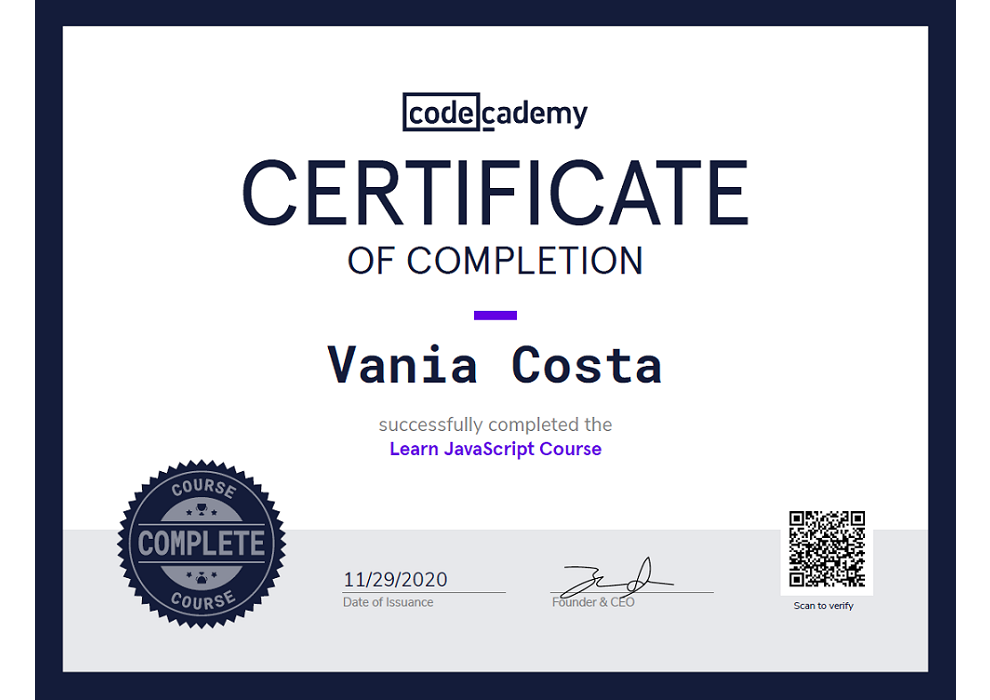
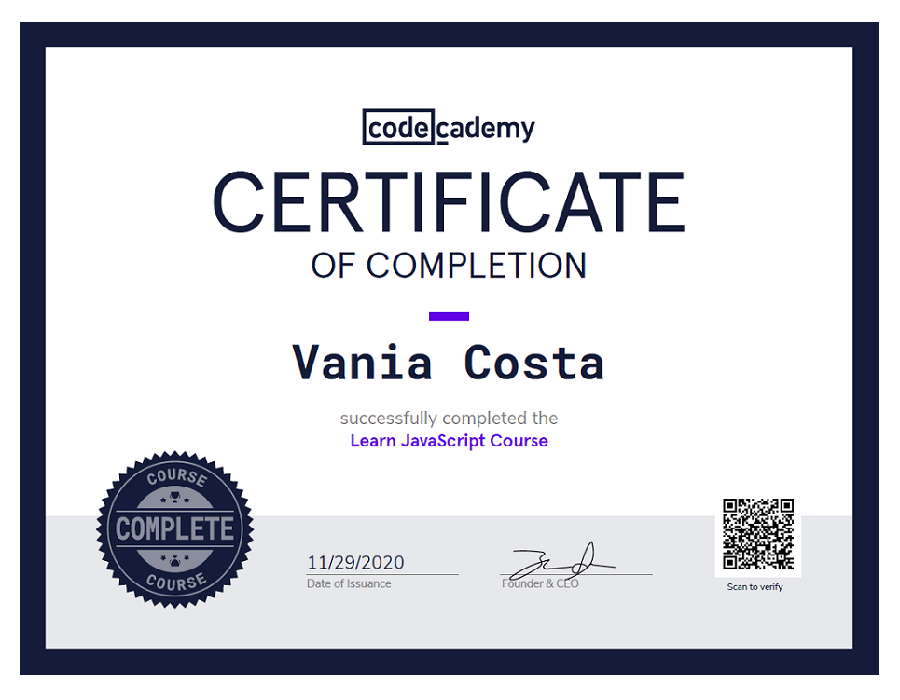
Added certificate

diff --git a/src/Certificates.js b/src/Certificates.js
@@ -3,6 +3,7 @@ import Slider from "react-slick";
 import "./Projects.css";
 import ProjectsInfo from "./ProjectsInfo";
 import certificate1 from "./media/codecademy-js.png";
+import certificate4 from "./media/codecademy-phaser.png";
 import certificate2 from "./media/certificate-plus.png";
 import certificate3 from "./media/certificate-react.png";
 
@@ -58,6 +59,14 @@ export default class SwipeToSlide extends Component {
           </div>
           <div>
             <ProjectsInfo
+              image={certificate4}
+              linkImage="https://www.codecademy.com/profiles/vniacsta/certificates/5ddbff3dd1bd3b001397ae9f"
+              name="Codecademy Javascript Certificate"
+              linkProject="https://www.codecademy.com/profiles/vniacsta/certificates/5ddbff3dd1bd3b001397ae9f"
+              />
+          </div>
+          <div>
+            <ProjectsInfo
               image={certificate2}
               linkImage="https://www.shecodes.io/certificates/40b6e552c908d683be92506fe52494c4"
               name="SheCodes Plus"
@@ -73,9 +82,6 @@ export default class SwipeToSlide extends Component {
               linkProject="https://react-app-project-vniacsta.netlify.app"
               linkGithub="https://github.com/vniacsta/react-app-project"
             />
-          </div>
-          <div>
-            
           </div>
         </Slider>
       </div>
